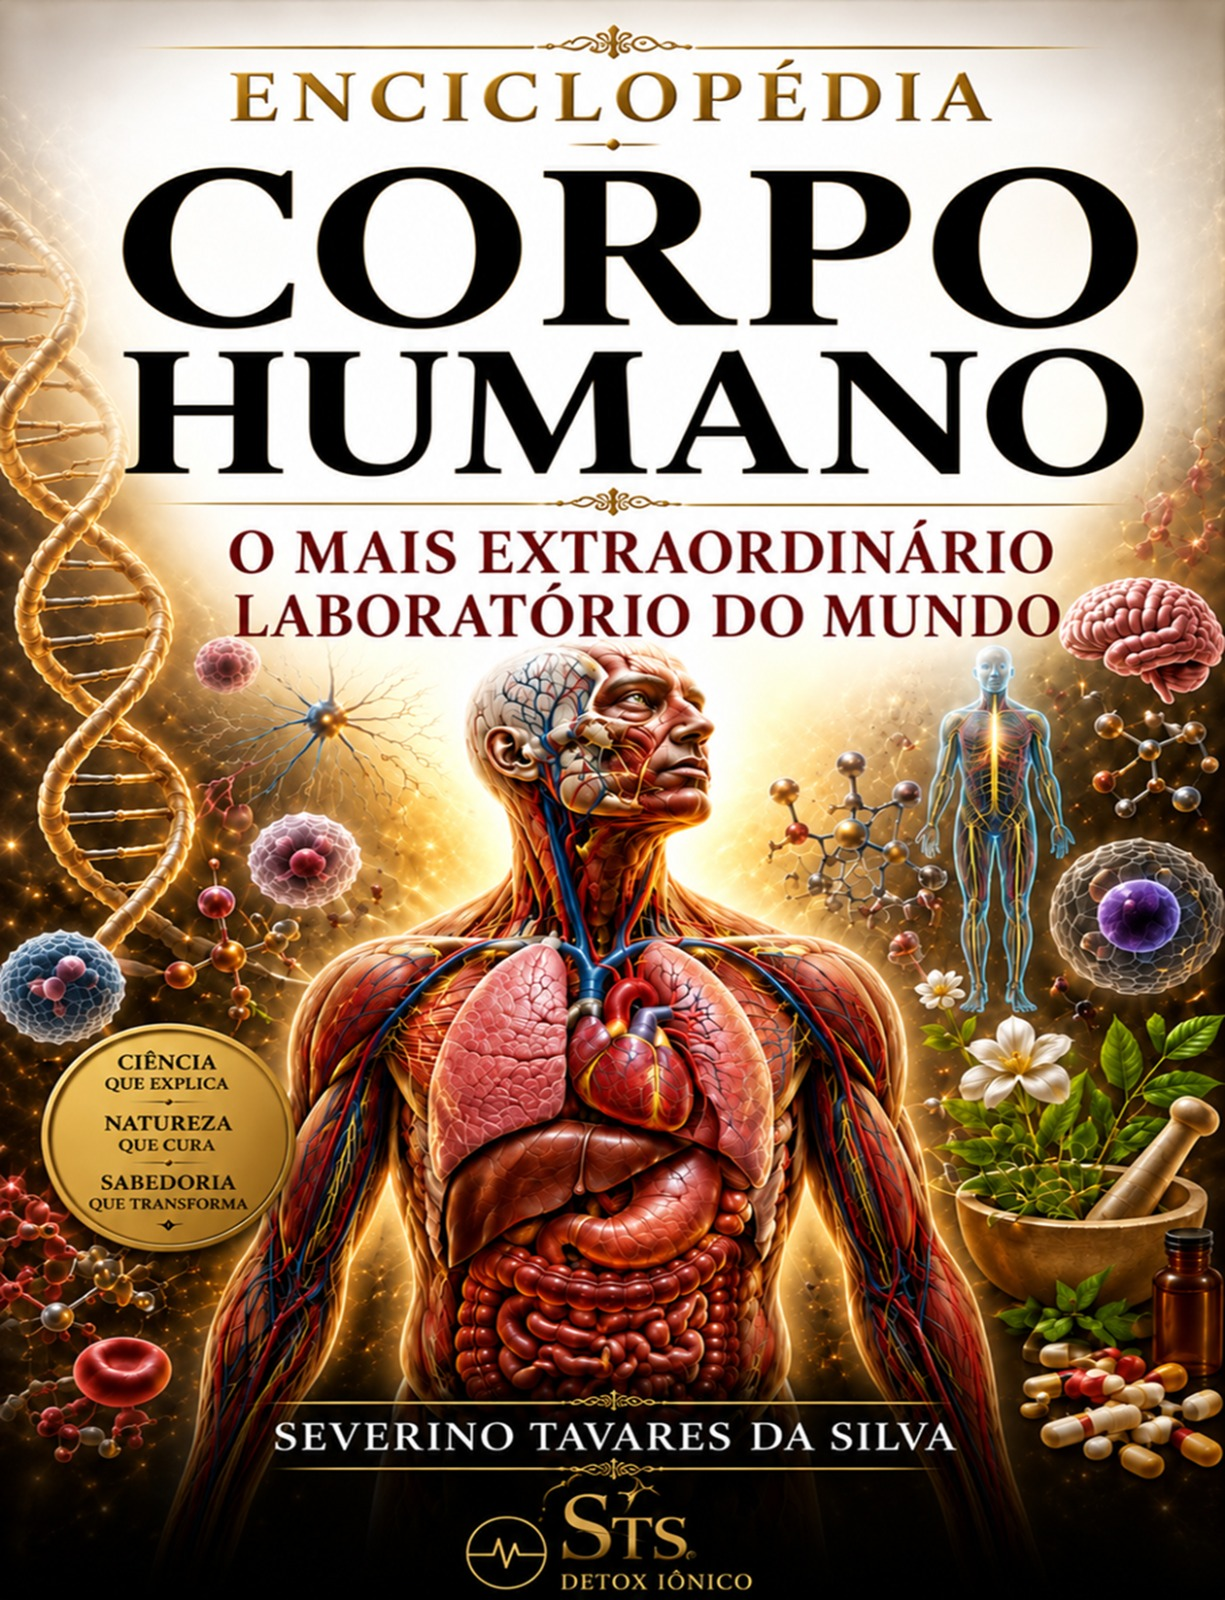
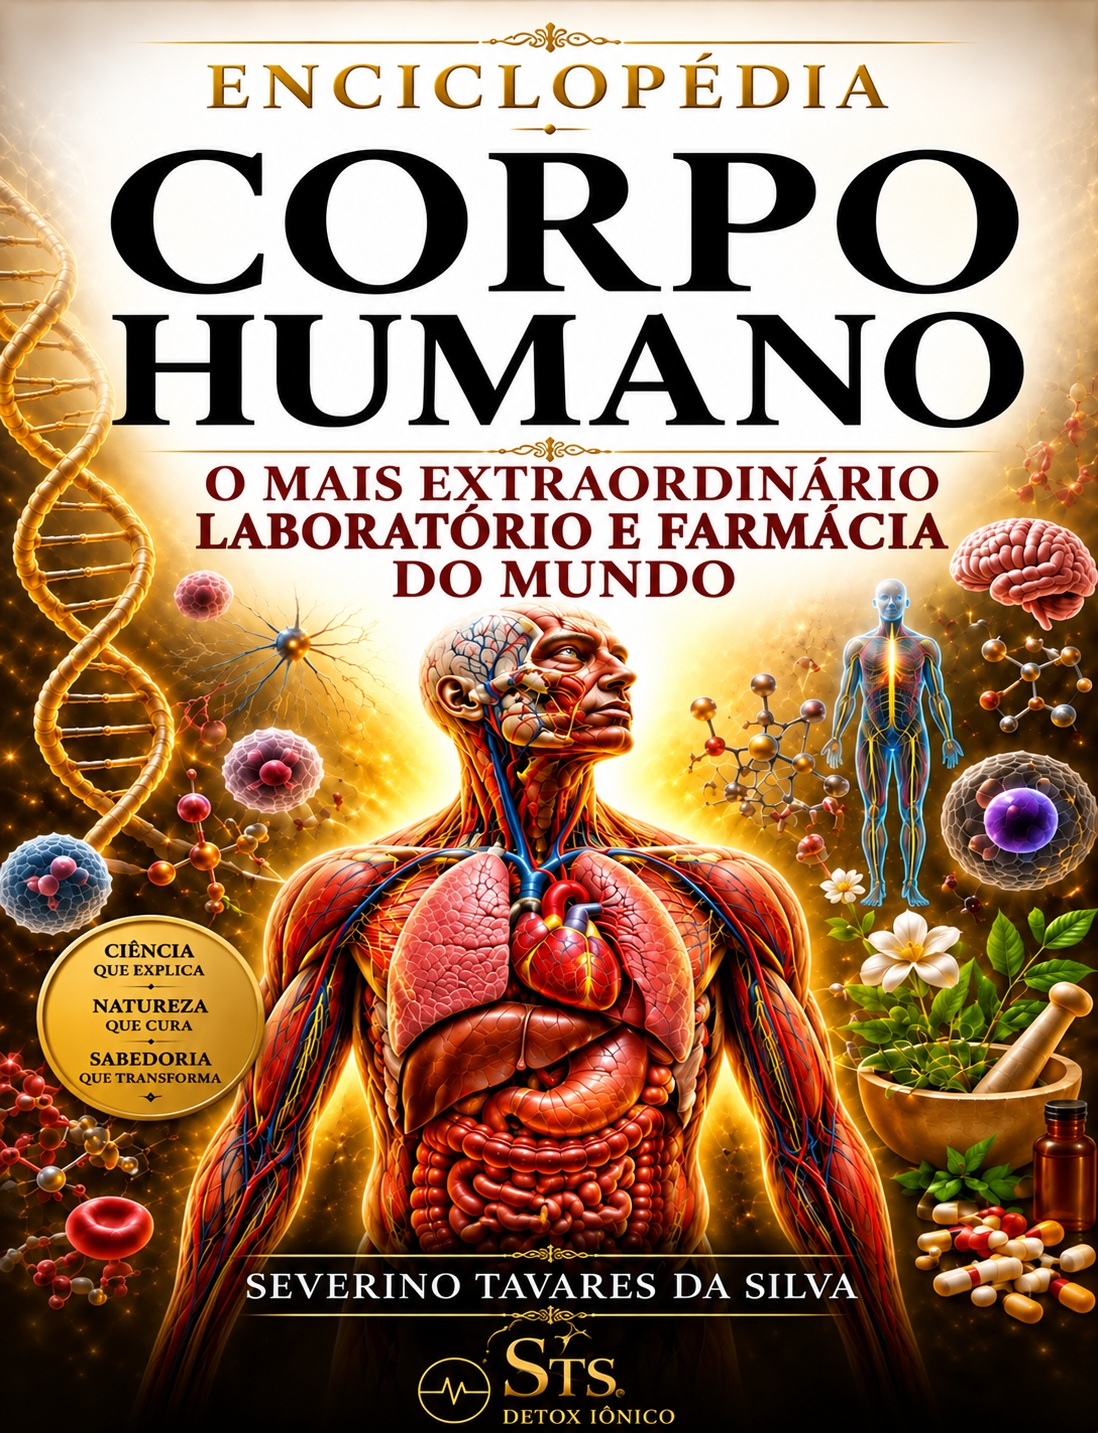
Ajusta acesso à história, texto da sessão e capa da enciclopédia

diff --git a/src/components/ConceitoBioequilibrio.tsx b/src/components/ConceitoBioequilibrio.tsx
@@ -27,6 +27,12 @@ export function TrajetoriaTavares() {
         <div className="lg:col-span-4">
           <p className="eyebrow mb-4 text-aqua">Estudo e experiência</p>
           <h2 id="trajetoria-titulo" className="text-balance font-display text-3xl font-bold leading-tight text-deep sm:text-4xl">Uma trajetória construída desde 2015</h2>
+          <a
+            href="/nossa-historia"
+            className="mt-6 inline-flex min-h-14 w-full items-center justify-center rounded-full bg-deep px-6 py-4 text-center text-base font-semibold leading-6 text-white shadow-md transition-colors hover:bg-deep-2 focus-visible:outline-2 focus-visible:outline-offset-4 focus-visible:outline-deep sm:w-auto"
+          >
+            Nossa História — Evolução dos Aparelhos STS
+          </a>
         </div>
         <div className="space-y-5 text-pretty text-base leading-8 text-muted-foreground lg:col-span-8">
           <p>Desde 2015, o professor Tavares dedica-se à aplicação e ao estudo do <strong className="text-foreground">DETOX IÔNICO</strong>, pesquisando, observando e registrando suas próprias experiências, bem como os relatos e experiências de alunos e colaboradores ao longo dos anos.</p>

diff --git a/src/routes/index.tsx b/src/routes/index.tsx
@@ -103,7 +103,7 @@ const etapas = [
     n: "03",
     titulo: "Durante a sessão",
     texto:
-      "O equipamento produz estímulos elétricos de baixa intensidade durante o tempo selecionado.",
+      "O equipamento produz estímulos elétricos de baixa intensidade durante o tempo desejado.",
   },
   {
     n: "04",
